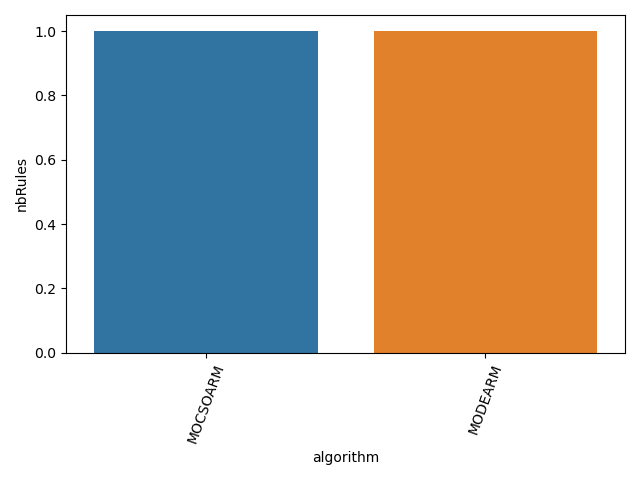
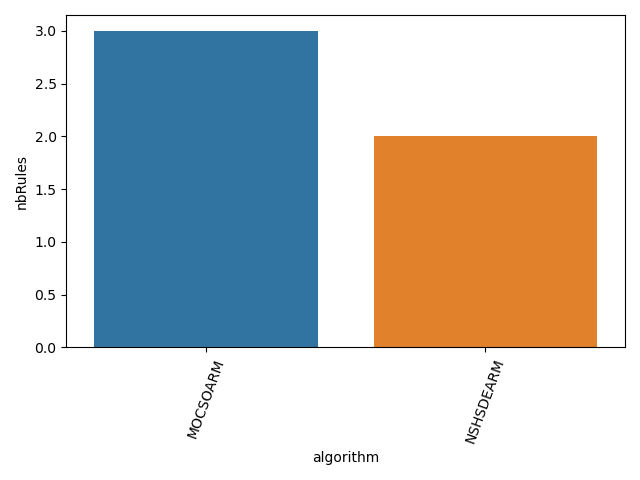
add NSHSDEARM

diff --git a/src/Algorithm/NSHSDEARM.py b/src/Algorithm/NSHSDEARM.py
@@ -1,0 +1,136 @@
+from src.Utils.Fitness import *
+from src.Utils.Population import *
+import matplotlib.pyplot as plt
+import pandas as pd
+from scipy.spatial import distance
+from src.Utils.Graphs import *
+from time import time
+from src.Utils.HyperParameters import *
+
+class NSHSDEARM:
+    def __init__(self,nbItem,populationSize,nbIteration,nbObjectifs,objectiveNames,data,
+                 hyperParameters = HyperParameters(['F','Fw','PAR'])):
+        self.population = Population('horizontal_binary', populationSize, nbItem)
+        self.nbItem = nbItem
+        self.nbIteration = nbIteration
+        self.nbObjectifs = nbObjectifs
+        self.fitness = Fitness('horizontal_binary', objectiveNames, populationSize )
+        self.F = hyperParameters.hyperParameters['F']
+        self.Fw = hyperParameters.hyperParameters['Fw']
+        self.PAR =  hyperParameters.hyperParameters['PAR']
+        self.mutatedVectors = np.zeros((populationSize,nbItem*2),dtype=float)
+        self.executionTime = 0
+        self.fitness.ComputeScorePopulation(self.population.population, data)
+        self.rank = np.zeros(populationSize,dtype=int)
+
+    def CrowdingDistanceAssignment(self,front,scores):
+        l = len(front)
+        distances = [0 for i in range(l)]
+        for i in range(self.nbObjectifs):
+            front = list(zip(scores[:,i],front))
+            front = np.array(sorted(front,key=lambda x:x[0]),dtype="object")
+            score = np.stack(front[:,0],axis=0)
+            front = np.stack(front[:,1],axis=0)
+            distances[0] = np.infty
+            distances[l-1] =np.infty
+            for j in range(2,l-2):
+                distances[j]+= (score[j+1]-score[j-1])/(score[0]-score[l-1])
+        front = list(zip(distances,front,scores))
+        front = sorted(front, key=lambda x: x[0],reverse=True)
+        front = np.array(front,dtype="object")
+        distances = np.stack(front[:,0],axis=0)
+        scores = np.stack(front[:, 2],axis=0)
+        front = np.stack(front[:, 1],axis=0)
+        return front,scores,distances
+
+    def SelectCurrentPopulation(self):
+        lastAddedFront = 0
+        lastIndexInd = 0
+        while lastIndexInd<self.population.populationSize:
+            lastIndexInd+=sum(self.rank==lastAddedFront)
+            lastAddedFront+=1
+        lastAddedFront-=1
+        lastIndexInd-=sum(self.rank==lastAddedFront)
+        front = copy.deepcopy(self.population.population[self.rank==lastAddedFront])
+        scores = copy.deepcopy(np.array(self.fitness.scores[self.rank==lastAddedFront]))
+        front,scores,distances = self.CrowdingDistanceAssignment(front,scores)
+        nbToAdd = self.population.populationSize-lastIndexInd
+        currentPopulation = np.concatenate([self.population.population[:lastIndexInd],front[:nbToAdd]],axis=0)
+        currentPopulationScores = np.concatenate([self.fitness.scores[:lastIndexInd],scores[:nbToAdd]],axis=0)
+        currentPopulation,currentPopulationScores,self.distances = self.CrowdingDistanceAssignment(currentPopulation,currentPopulationScores)
+        self.population.SetPopulation(np.array(currentPopulation))
+
+    def FastNonDominatedSort(self,population):
+        F = []
+        F1 = []
+        n = [0 for _ in range(population.populationSize)]
+        S = [[] for _ in range(population.populationSize)]
+        self.rank = [0 for _ in range(population.populationSize)]
+        for p in range(population.populationSize):
+            S[p] = []
+            for q in range(population.populationSize):
+                if self.fitness.Domination(self.fitness.scores[p],self.fitness.scores[q]) == -1:
+                    S[p].append(q)
+                elif self.fitness.Domination(self.fitness.scores[p],self.fitness.scores[q]) == 1:
+                    n[p]+=1
+            if n[p] == 0:
+                self.rank[p] = 0
+                F1.append(p)
+        F.append(F1)
+        i = 0
+        while len(F[i]) != 0 :
+            Q = []
+            for p in range(len(F[i])):
+                for q in range(len(F[i])):
+                    n[q]-=1
+                    if n[q] == 0:
+                        self.rank[q] = i+1
+                        Q.append(q)
+            i+=1
+            F.append(Q)
+        self.rank = np.array(self.rank)
+        sortedPopulation = list(zip(self.rank,population.population,self.fitness.scores))
+        sortedPopulation = np.array(sorted(sortedPopulation,key=lambda x:x[0]),dtype="object")
+        self.fitness.scores = np.stack(sortedPopulation[:,2],axis=0)
+        self.rank = sortedPopulation[:,0]
+        sortedPopulation = np.stack(sortedPopulation[:,1],axis=0)
+        population.SetPopulation(sortedPopulation)
+
+    def PitchAdjustment(self):
+        for i in range(self.population.populationSize):
+            for j in range(self.nbItem*2):
+                r = rd.random()
+                delta = self.Fw*np.random.normal()
+                if r<self.PAR:
+                    self.mutatedVectors[i][j] = self.mutatedVectors[i][j]+delta
+
+    def Mutation(self):
+        for i in range(self.population.populationSize):
+            a = rd.randint(0,self.population.populationSize-1)
+            b = rd.randint(0,self.population.populationSize-1)
+            c = rd.randint(0,self.population.populationSize-1)
+            while a==i or b==i or c==i or a==b or a==c or b==c:
+                a = rd.randint(0, self.population.populationSize - 1)
+                b = rd.randint(0, self.population.populationSize - 1)
+                c = rd.randint(0, self.population.populationSize - 1)
+            self.mutatedVectors[i] = self.population.population[a] + self.F*(self.population.population[b]-self.population.population[c])
+
+    def UpdateFw(self,i):
+        c = np.log(0.001/1)/self.nbIteration
+        self.Fw = 1*np.exp(c*i)
+
+    def Run(self,data,i):
+
+        t1 = time()
+        self.Mutation()
+        self.PitchAdjustment()
+        self.population.SetPopulation(self.mutatedVectors)
+        self.population.CheckIfNull()
+        self.fitness.ComputeScorePopulation(self.population.population, data)
+        self.FastNonDominatedSort(self.population)
+        self.SelectCurrentPopulation()
+        self.UpdateFw(i)
+        self.executionTime = time() - t1
+
+
+

diff --git a/main.py b/main.py
@@ -14,6 +14,7 @@ from src.Algorithm.MOALOARM import *
 from src.Algorithm.MODAARM import *
 from src.Algorithm.MOHSBOTSARM import *
 from src.Algorithm.MODEARM import *
+from src.Algorithm.NSHSDEARM import *
 
 from src.Utils.Performances import *
 from src.Utils.Data import *
@@ -36,7 +37,7 @@ nbIteration = 10
 populationSize = 200
 objectiveNames = ['support','confidence','accuracy']
 criterionList = ['scores','execution time']
-algorithmNameList = ['MOCSOARM','MODEARM']
+algorithmNameList = ['MOCSOARM','NSHSDEARM']
 #algorithmNameList = ['CSOARM','mopso','nsgaii','hmofaarm','mowsaarm','mocatsoarm','motlboarm','mofpaarm','moaloarm','modaarm','MOHSBOTSARM']
 
 perf = Performances(algorithmNameList,criterionList,objectiveNames)
@@ -60,10 +61,11 @@ moaloarm = MOALOARM(d.data.shape[1],populationSize,nbIteration,len(objectiveName
 modaarm = MODAARM(d.data.shape[1],populationSize,nbIteration,len(objectiveNames),objectiveNames,d.data)
 mohsbotsarm = MOHSBOTSARM(d.data.shape[1],populationSize,nbIteration,len(objectiveNames),objectiveNames,d.data)
 modearm = MODEARM(d.data.shape[1],populationSize,nbIteration,len(objectiveNames),objectiveNames,d.data)
+nshsdearm = NSHSDEARM(d.data.shape[1],populationSize,nbIteration,len(objectiveNames),objectiveNames,d.data)
 
 
 #algorithmList = [mocsoarm,mopso,nsgaii,hmofaarm,mowsaarm,mocatsoarm,motlboarm,mofpaarm,moaloarm,modaarm,mohsbotsarm]
-algorithmList = [mocsoarm,modearm]
+algorithmList = [mocsoarm,nshsdearm]
 for i in range(nbIteration):
     k = 0
     for alg in algorithmList:

diff --git a/src/Algorithm/MODEARM.py b/src/Algorithm/MODEARM.py
@@ -9,7 +9,7 @@ from src.Utils.HyperParameters import *
 
 class MODEARM:
     def __init__(self,nbItem,populationSize,nbIteration,nbObjectifs,objectiveNames,data,
-                 hyperParameters = HyperParameters(['F','CR']),visualScope=10,step=3):
+                 hyperParameters = HyperParameters(['F','CR'])):
         self.population = Population('horizontal_binary', populationSize, nbItem)
         self.nbItem = nbItem
         self.nbIteration = nbIteration

diff --git a/src/Utils/Graphs.py b/src/Utils/Graphs.py
@@ -42,7 +42,10 @@ class Graphs:
     def GraphScores(self):
         fig = plt.figure()
         ax = fig.add_subplot(111, projection='3d')
-
+        ax.set_xlim3d(0, 1)
+        ax.set_ylim3d(0, 1)
+        #a Changer si on a une IM avec un interval de definition autre
+        ax.set_zlim3d(0, 1)
         ax.set_xlabel(self.objectiveNames[0])
         ax.set_ylabel(self.objectiveNames[1])
         ax.set_zlabel(self.objectiveNames[2])
